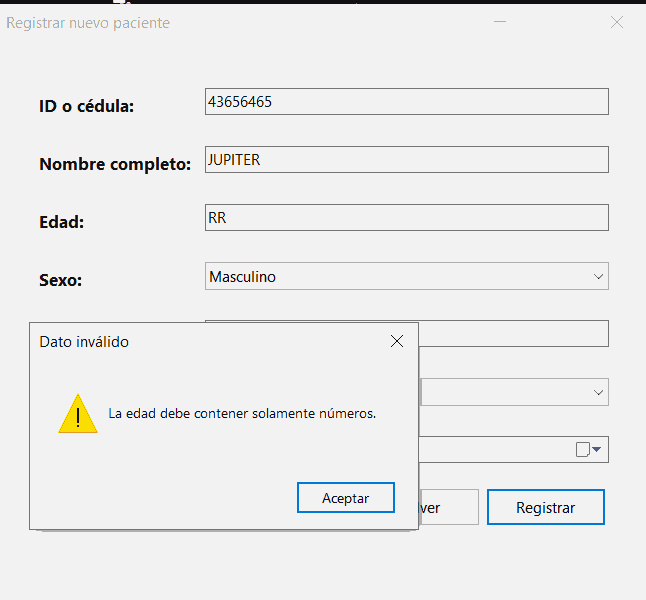
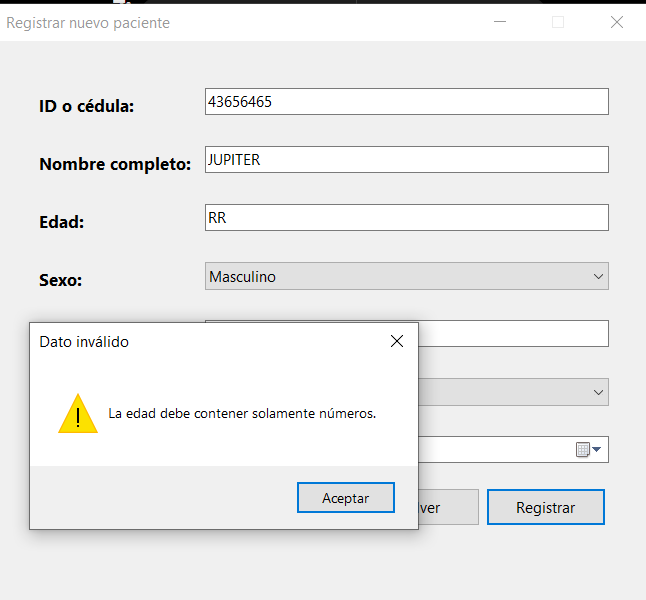
Agregar las 18 capturas reales del sistema

diff --git a/README.md b/README.md
@@ -136,53 +136,79 @@ SistemaGestionPacientesFinal/
 
 ## Evidencias y capturas de pantalla
 
-Las siguientes capturas muestran los formularios, las operaciones CRUD, las validaciones y los mensajes solicitados en la práctica. Se presentan en orden para que el funcionamiento del sistema pueda seguirse de principio a fin.
+A continuación se muestran las **18 capturas reales de ejecución** del sistema, organizadas en el mismo orden en que se realizaron las pruebas.
 
-### Evidencia 1 — Menú, registro y validaciones
+### 1. Menú principal
 
-Esta evidencia contiene, en este orden:
+![01 - Menú principal](docs/capturas/01-menu-principal.png)
 
-1. Menú principal.
-2. Formulario para registrar paciente.
-3. Registro exitoso.
-4. Validación de campo obligatorio.
-5. Validación de edad incorrecta.
-6. Validación de ID duplicado.
+### 2. Formulario para registrar paciente
 
-![Menú, registro y validaciones](docs/capturas/evidencias-01-registro-validaciones.webp)
+![02 - Formulario para registrar paciente](docs/capturas/02-formulario-registrar.png)
 
-### Evidencia 2 — Listado, búsquedas, actualización y eliminación
+### 3. Registro exitoso
 
-Esta evidencia contiene, en este orden:
+![03 - Registro exitoso](docs/capturas/03-registro-exitoso.png)
 
-7. Listado de pacientes en `DataGridView`.
-8. Búsqueda de paciente por ID.
-9. Búsqueda de paciente por nombre.
-10. Paciente o ID inexistente.
-11. Pregunta para realizar otro registro.
-12. Formulario para actualizar paciente.
-13. Actualización exitosa.
-14. Formulario para eliminar paciente.
-15. Confirmación antes de eliminar.
-16. Eliminación exitosa.
-17. Listado después de eliminar.
-18. Pregunta para repetir una operación de actualización o eliminación.
+### 4. Validación de campo obligatorio
 
-![Listado, búsqueda, actualización y eliminación](docs/capturas/evidencias-02-crud-completo.webp)
+![04 - Validación de campo obligatorio](docs/capturas/04-campo-obligatorio.png)
 
-### Capturas individuales destacadas
+### 5. Validación de edad incorrecta
 
-#### Formulario para registrar paciente
+![05 - Validación de edad incorrecta](docs/capturas/05-validacion-edad.png)
 
-![Formulario para registrar paciente](docs/capturas/02-formulario-registrar.png)
+### 6. Validación de ID duplicado
 
-#### Registro exitoso
+![06 - Validación de ID duplicado](docs/capturas/06-validacion-id-duplicado.png)
 
-![Registro exitoso](docs/capturas/03-registro-exitoso.png)
+### 7. Listado de pacientes
 
-#### Validación de edad incorrecta
+![07 - Listado de pacientes](docs/capturas/07-listado-pacientes.png)
 
-![Validación de edad incorrecta](docs/capturas/05-validacion-edad.png)
+### 8. Búsqueda de paciente por ID
+
+![08 - Búsqueda de paciente por ID](docs/capturas/08-busqueda-por-id.png)
+
+### 9. Búsqueda por nombre
+
+![09 - Búsqueda por nombre](docs/capturas/09-busqueda-por-nombre.png)
+
+### 10. Paciente o ID inexistente
+
+![10 - Paciente o ID inexistente](docs/capturas/10-paciente-no-existe.png)
+
+### 11. Pregunta para repetir el registro
+
+![11 - Pregunta para repetir el registro](docs/capturas/11-repetir-registro.png)
+
+### 12. Formulario para actualizar paciente
+
+![12 - Formulario para actualizar paciente](docs/capturas/12-formulario-actualizar.png)
+
+### 13. Actualización exitosa
+
+![13 - Actualización exitosa](docs/capturas/13-actualizacion-exitosa.png)
+
+### 14. Formulario para eliminar paciente
+
+![14 - Formulario para eliminar paciente](docs/capturas/14-formulario-eliminar.png)
+
+### 15. Confirmación antes de eliminar
+
+![15 - Confirmación antes de eliminar](docs/capturas/15-confirmacion-eliminar.png)
+
+### 16. Eliminación exitosa
+
+![16 - Eliminación exitosa](docs/capturas/16-eliminacion-exitosa.png)
+
+### 17. Listado después de eliminar
+
+![17 - Listado después de eliminar](docs/capturas/17-listado-despues-eliminar.png)
+
+### 18. Pregunta para repetir actualización o eliminación
+
+![18 - Pregunta para repetir actualización o eliminación](docs/capturas/18-repetir-actualizar-eliminar.png)
 
 ## Matriz de cumplimiento
 
